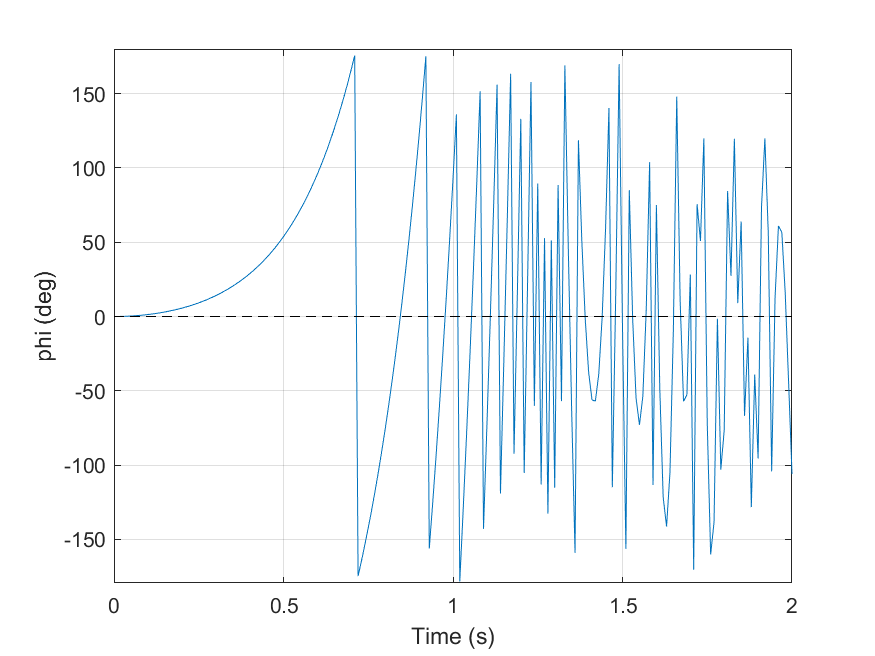
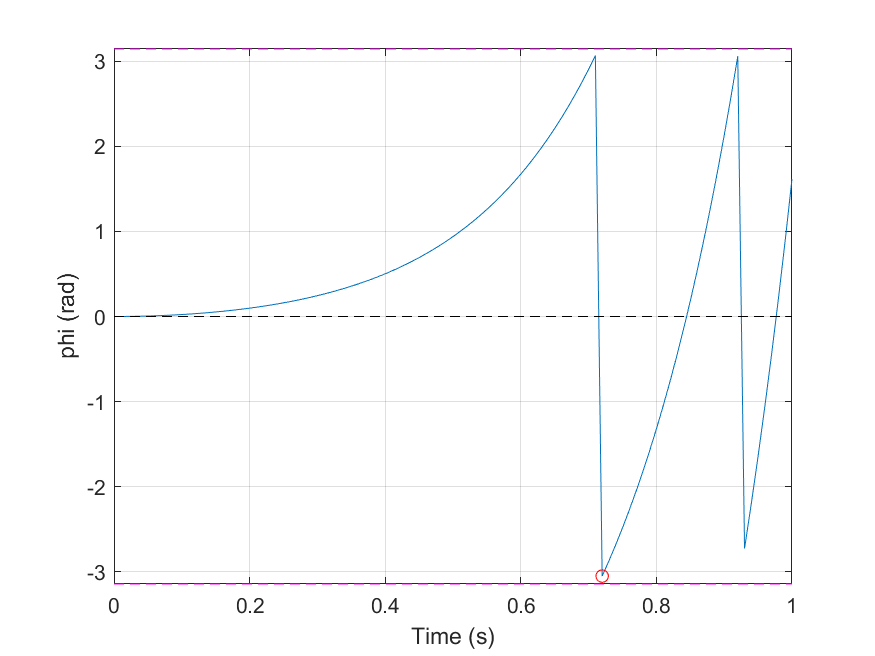
feat: update analysis scripts for stability checks and visualization in rad

diff --git a/matlab/Nomor 2/analisis_sistem.m b/matlab/Nomor 2/analisis_sistem.m
@@ -74,33 +74,72 @@ fprintf('Phase margin: %.4g deg\n', Pm);
 fprintf('Gain crossover: %.4g rad/s\n', Wcg);
 fprintf('Phase crossover: %.4g rad/s\n', Wcp);
 
-t = 0:0.01:2;
+t = 0:0.01:1;
+phi_limit = deg2rad(180);
 
 [y_step, t_step] = step(T, t);
 [y_imp, t_imp] = impulse(T, t);
 
-phi_step = rad2deg(y_step);
-phi_imp = rad2deg(y_imp);
+phi_step = y_step;
+phi_imp = y_imp;
 
-phi_step = mod(phi_step + 180, 360) - 180;
-phi_imp = mod(phi_imp + 180, 360) - 180;
+phi_step_wrap = mod(phi_step + pi, 2*pi) - pi;
+phi_imp_wrap = mod(phi_imp + pi, 2*pi) - pi;
 
-fig = figure('Name', 'Step - Uncompensated (deg)');
-plot(t_step, phi_step); grid on; hold on;
+fall_step_idx = find(abs(phi_step) >= phi_limit, 1, 'first');
+if ~isempty(fall_step_idx)
+    a_step = phi_step(fall_step_idx);
+    t_fall_step = t_step(fall_step_idx);
+    a_step_wrap = mod(a_step + pi, 2*pi) - pi;
+    fprintf('Unstable at t = %.4g s (step)\n', t_fall_step);
+else
+    a_step_wrap = [];
+    t_fall_step = [];
+    fprintf('Unstable not reached (step)\n');
+end
+
+fall_imp_idx = find(abs(phi_imp) >= phi_limit, 1, 'first');
+if ~isempty(fall_imp_idx)
+    a_imp = phi_imp(fall_imp_idx);
+    t_fall_imp = t_imp(fall_imp_idx);
+    a_imp_wrap = mod(a_imp + pi, 2*pi) - pi;
+    fprintf('Unstable at t = %.4g s (impulse)\n', t_fall_imp);
+else
+    a_imp_wrap = [];
+    t_fall_imp = [];
+    fprintf('Unstable not reached (impulse)\n');
+end
+
+fig = figure('Name', 'Step - Uncompensated (rad)');
+plot(t_step, phi_step_wrap); grid on; hold on;
 plot([t_step(1) t_step(end)], [0 0], 'k--');
+plot([t_step(1) t_step(end)], [pi pi], 'b--');
+plot([t_step(1) t_step(end)], [-pi -pi], 'b--');
+plot([t_step(1) t_step(end)], [phi_limit phi_limit], 'm--');
+plot([t_step(1) t_step(end)], [-phi_limit -phi_limit], 'm--');
+if ~isempty(t_fall_step)
+    plot(t_fall_step, a_step_wrap, 'ro');
+end
 hold off;
-ylim([-180 180]);
+ylim([-pi pi]);
 xlabel('Time (s)');
-ylabel('phi (deg)');
+ylabel('phi (rad)');
 saveas(fig, fullfile(out_dir, 'step_uncomp.png'));
 
-fig = figure('Name', 'Impulse - Uncompensated (deg)');
-plot(t_imp, phi_imp); grid on; hold on;
+fig = figure('Name', 'Impulse - Uncompensated (rad)');
+plot(t_imp, phi_imp_wrap); grid on; hold on;
 plot([t_imp(1) t_imp(end)], [0 0], 'k--');
+plot([t_imp(1) t_imp(end)], [pi pi], 'b--');
+plot([t_imp(1) t_imp(end)], [-pi -pi], 'b--');
+plot([t_imp(1) t_imp(end)], [phi_limit phi_limit], 'm--');
+plot([t_imp(1) t_imp(end)], [-phi_limit -phi_limit], 'm--');
+if ~isempty(t_fall_imp)
+    plot(t_fall_imp, a_imp_wrap, 'ro');
+end
 hold off;
-ylim([-180 180]);
+ylim([-pi pi]);
 xlabel('Time (s)');
-ylabel('phi (deg)');
+ylabel('phi (rad)');
 saveas(fig, fullfile(out_dir, 'impulse_uncomp.png'));
 
 if ~stable_cl

diff --git a/matlab/Nomor 4/diskrit_sistem.m b/matlab/Nomor 4/diskrit_sistem.m
@@ -65,6 +65,78 @@ fprintf('Phase margin (DT): %.4g deg\n', Pm);
 fprintf('Gain crossover (DT): %.4g rad/s\n', Wcg);
 fprintf('Phase crossover (DT): %.4g rad/s\n', Wcp);
 
+t = 0:Ts:1;
+phi_stable = deg2rad(180);
+
+[y_step, t_step] = step(Td, t);
+[y_imp, t_imp] = impulse(Td, t);
+
+phi_step = y_step;
+phi_imp = y_imp;
+
+phi_step_wrap = mod(phi_step + pi, 2*pi) - pi;
+phi_imp_wrap = mod(phi_imp + pi, 2*pi) - pi;
+
+fall_step_idx = find(abs(phi_step) >= phi_stable, 1, 'first');
+if ~isempty(fall_step_idx)
+    a_step = phi_step(fall_step_idx);
+    t_fall_step = t_step(fall_step_idx);
+    a_step_wrap = mod(a_step + pi, 2*pi) - pi;
+    fprintf('Unstable at t = %.4g s (DT step)\n', t_fall_step);
+else
+    a_step_wrap = [];
+    t_fall_step = [];
+    fprintf('Unstable not reached (DT step)\n');
+end
+
+fall_imp_idx = find(abs(phi_imp) >= phi_stable, 1, 'first');
+if ~isempty(fall_imp_idx)
+    a_imp = phi_imp(fall_imp_idx);
+    t_fall_imp = t_imp(fall_imp_idx);
+    a_imp_wrap = mod(a_imp + pi, 2*pi) - pi;
+    fprintf('Unstable at t = %.4g s (DT impulse)\n', t_fall_imp);
+else
+    a_imp_wrap = [];
+    t_fall_imp = [];
+    fprintf('Unstable not reached (DT impulse)\n');
+end
+
+fig = figure('Name', 'Step - DT Uncompensated (rad)');
+plot(t_step, phi_step_wrap); grid on; hold on;
+plot([t_step(1) t_step(end)], [0 0], 'k--');
+plot([t_step(1) t_step(end)], [pi pi], 'b--');
+plot([t_step(1) t_step(end)], [-pi -pi], 'b--');
+plot([t_step(1) t_step(end)], [phi_stable phi_stable], 'm--');
+plot([t_step(1) t_step(end)], [-phi_stable -phi_stable], 'm--');
+if ~isempty(t_fall_step)
+    plot(t_fall_step, a_step_wrap, 'ro');
+end
+hold off;
+ylim([-pi pi]);
+xlabel('Time (s)');
+ylabel('phi (rad)');
+saveas(fig, fullfile(out_dir, 'step_dt_uncomp.png'));
+
+fig = figure('Name', 'Impulse - DT Uncompensated (rad)');
+plot(t_imp, phi_imp_wrap); grid on; hold on;
+plot([t_imp(1) t_imp(end)], [0 0], 'k--');
+plot([t_imp(1) t_imp(end)], [pi pi], 'b--');
+plot([t_imp(1) t_imp(end)], [-pi -pi], 'b--');
+plot([t_imp(1) t_imp(end)], [phi_stable phi_stable], 'm--');
+plot([t_imp(1) t_imp(end)], [-phi_stable -phi_stable], 'm--');
+if ~isempty(t_fall_imp)
+    plot(t_fall_imp, a_imp_wrap, 'ro');
+end
+hold off;
+ylim([-pi pi]);
+xlabel('Time (s)');
+ylabel('phi (rad)');
+saveas(fig, fullfile(out_dir, 'impulse_dt_uncomp.png'));
+
+if ~stable_d
+    disp('Closed-loop unstable, responses may diverge.');
+end
+
 Tc = feedback(G, 1);
 if isstable(Tc) && stable_d
     fig = figure('Name', 'Step CT vs DT');
